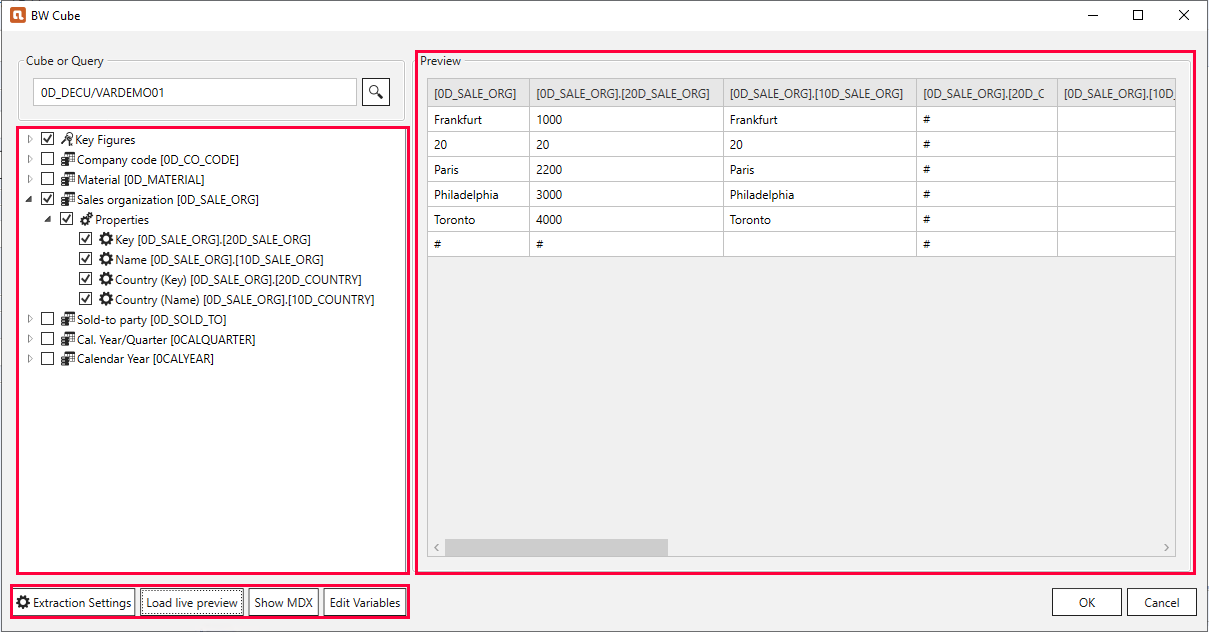
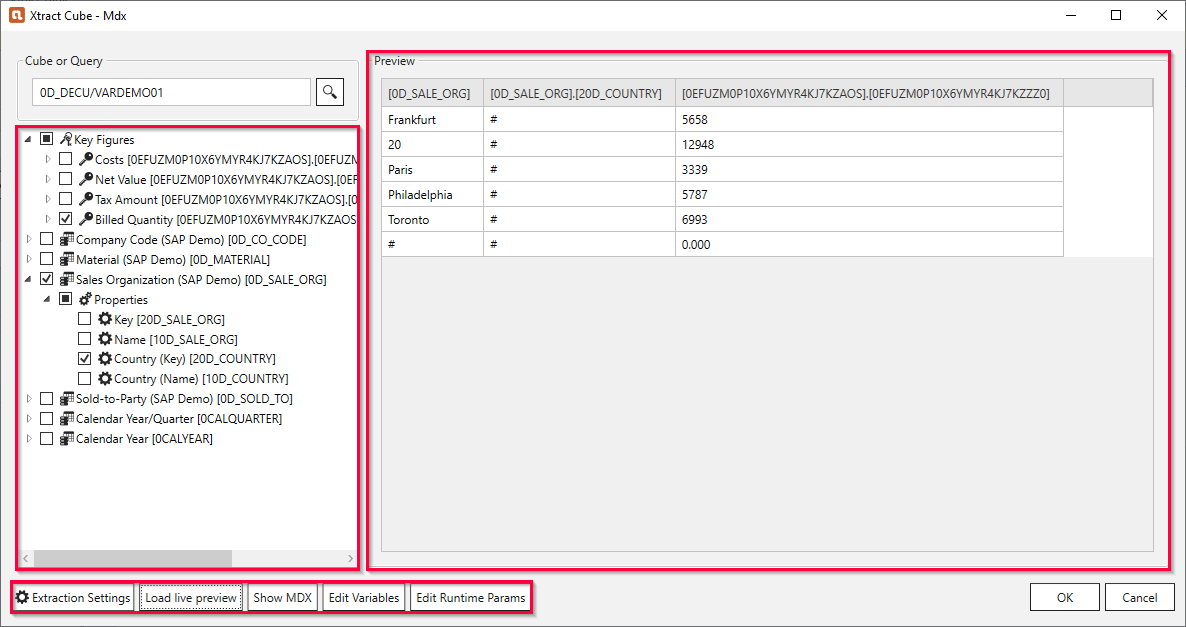
landing page

Changed region(s): [[0.0, 0.0, 1.0, 1.0], [0.0, 0.0, 0.1248, 0.0606]]

diff --git a/content/_de/xtract-for-alteryx/bw-cube.md b/content/_de/xtract-for-alteryx/bw-cube.md
@@ -43,7 +43,7 @@ Im Unterabschnitt **Preview**  wird der Inhalt des ausgewählten Querys oder BW 
 - **[Load live preview]** lädt eine Echtzeitvorschau einer Query oder eines BW Cubes / InfoProviders ohne eine Extraktion auszuführen.
 - **[Show MDX]** zeigt das für die Selektion generierte MDX-Statement, das zur Laufzeit auf dem BW-System ausgeführt wird.Wenn der Zugang zum BW-System verfügbar ist, können Sie zusätzlich die Transaktion *MDXTEST* verwenden, um das MDX-Statement zu verwenden.
 - **[Edit Variables]** ermöglicht die Definition der [Variablen](./bw-cube/bw-cube-variablen). 
-
+- **[Edit Runtime Parameters]** ermöglicht die Definition von [Laufzeitparametern](./bw-cube/edit-runtime-parameters). 
 
 Weitere Informationen zum Arbeiten mit der BW Cube Komponente finden Sie in den folgenden Unterabschnitten.
 

diff --git a/content/_de/xtract-for-alteryx/bw-cube/edit-runtime-parameters.md b/content/_de/xtract-for-alteryx/bw-cube/edit-runtime-parameters.md
@@ -13,7 +13,7 @@ Verwenden Sie Laufzeitparameter, um Dimensionsfilter und Variablen dynamisch zur
 
 ### Laufzeitparameter erstellen 
 
-1. Um Laufzeitparameter anzulegen und zu bearbeiten, klicken Sie im Hauptfenster der Komponente auf **Edit Runtime Parameter**. <br/>
+1. Um Laufzeitparameter anzulegen und zu bearbeiten, klicken Sie im Hauptfenster der Komponente auf **[Edit Runtime Parameter]**. <br/>
 Das Fenster "Edit Runtime Parameters" öffnet sich.<br> 
 ![Add parameters](/img/content/odp/odp-settings-add-parameters.png){:class="img-responsive"}<br> 
 2. Klicken Sie auf **[Add]** (1), um Parameter zu definieren, die als Platzhalter für die Datenfilter verwendet werden können. Die Platzhalter müssen zur Extraktionslaufzeit mit echten Werten befüllt werden.<br>

diff --git a/content/_en/xtract-for-alteryx/bw-cube/edit-runtime-parameters.md b/content/_en/xtract-for-alteryx/bw-cube/edit-runtime-parameters.md
@@ -13,9 +13,7 @@ Use runtime parameters to change dimension filters and variables dynamically dur
 
 ### Create Runtime Parameters 
 
-Click **Edit Parameters** to create or edit dynamic runtime parameters.
-
-1. To display editing function for the parameters, depending on the product, click **Edit Runtime Parameters**. <br/>
+1. Click **[Edit Runtime Parameters]** in the main window of the component to create or edit dynamic runtime parameters.
 The window "Edit Runtime Parameters" opens.<br> 
 ![Add parameters](/img/content/odp/odp-settings-add-parameters.png){:class="img-responsive"}<br> 
 2. Click **[Add]** (1) to define parameters which can be used as placeholders for data filters. These placeholders need to be populated with actual values at extraction runtime.<br>

diff --git a/content/_en/xtract-for-alteryx/bw-cube.md b/content/_en/xtract-for-alteryx/bw-cube.md
@@ -43,6 +43,7 @@ The **Preview** subsection displays the content of the selected Query or a BW Cu
 - **[Load live preview]** loads a preview of a Query or a BW Cube / InfoProvider.
 - **[Show MDX]** displays the MDX statement generated for the selection, which will be executed at run-time on the BW system. When the access to BW system is available, you can additionally use the transaction *MDXTEST* to run the MDX statement.
 - **[Edit Variables]** allows defining [variables](./bw-cube/bw-cube-variables). 
+- **[Edit Runtime Parameters]** allows defining [runtime parameters](./bw-cube/edit-runtime-parameters). 
 
 More information on working with the Cube component is provided in the following sections.
 
